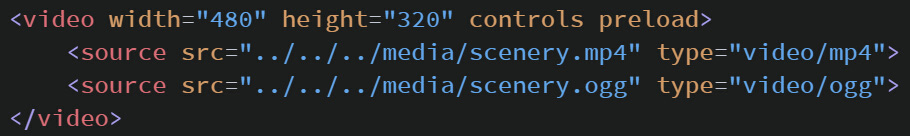
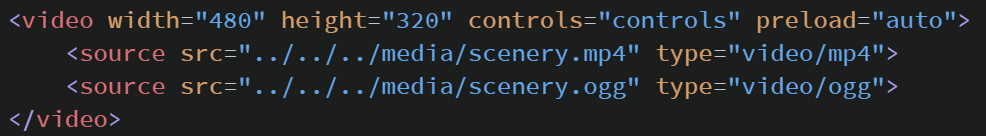
修改了HTML5部分音频和视频的代码和对应的截图

diff --git a/html-pages/html/codeEffect/code-49.html b/html-pages/html/codeEffect/code-49.html
@@ -13,9 +13,9 @@
 </head>
 <body>
     <section>
-        <audio controls="controls">
-            <source src="../../../media/cityOfSky.mp3" type="audio/ogg">
-            <source src="../../../media/cityOfSky.ogg" type="audio/mpeg">
+        <audio controls="controls" preload="auto">
+            <source src="../../../media/cityOfSky.mp3" type="audio/mpeg">
+            <source src="../../../media/cityOfSky.ogg" type="audio/ogg">
         </audio>
     </section>
 </body><script src="../../../plugin/jquery-3.1.0.min.js"></script> <script src="../../../js/iframe.min.js"></script>

diff --git a/html-pages/html/codeEffect/code-50.html b/html-pages/html/codeEffect/code-50.html
@@ -13,10 +13,10 @@
 </head>
 <body>
     <section>
-        <video width="480" height="320" controls preload>
+        <video width="480" height="320" controls="controls" preload="auto">
             <source src="../../../media/scenery.mp4" type="video/mp4">
             <source src="../../../media/scenery.ogg" type="video/ogg">
         </video>
     </section>
 </body><script src="../../../plugin/jquery-3.1.0.min.js"></script> <script src="../../../js/iframe.min.js"></script>
-</html>
+</html>A
